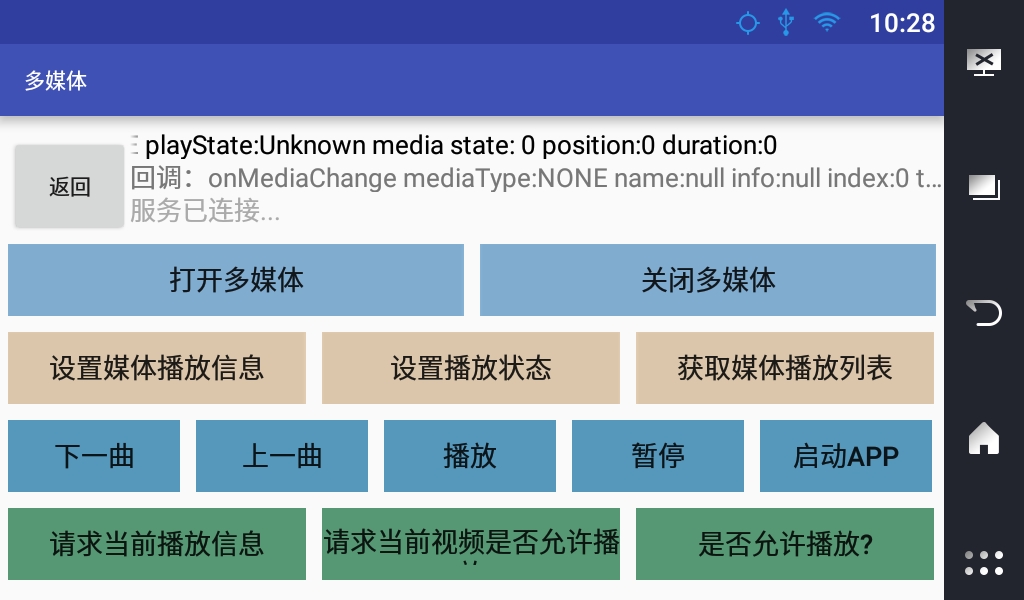
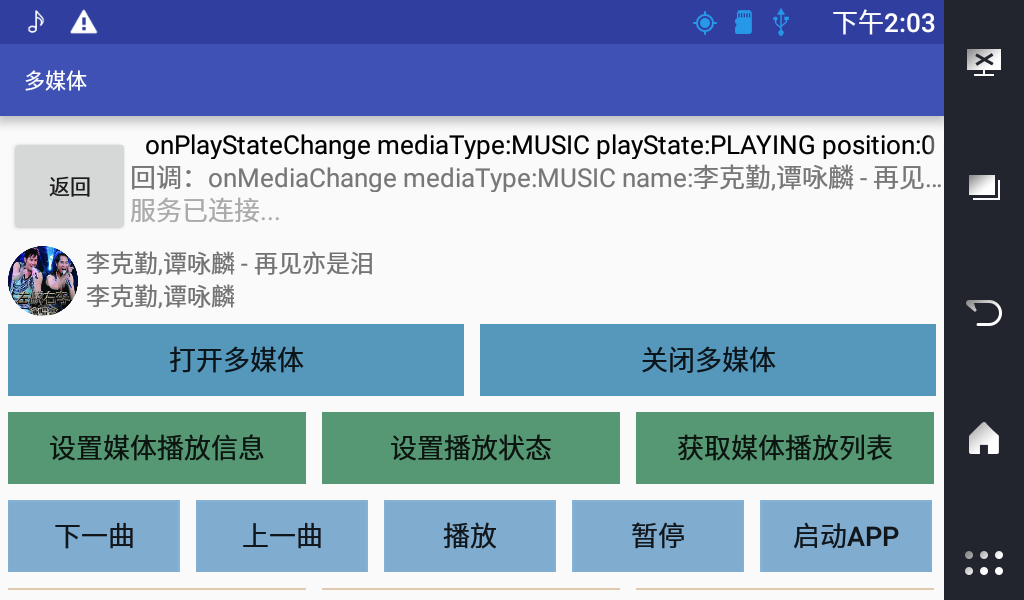
多媒体Activity增加 歌手图片显示

diff --git a/ivi-demo/src/main/java/com/roadrover/demo/ui/activity/MediaActivity.java b/ivi-demo/src/main/java/com/roadrover/demo/ui/activity/MediaActivity.java
@@ -1,8 +1,13 @@
 package com.roadrover.demo.ui.activity;
 
+import android.graphics.Bitmap;
+import android.graphics.drawable.BitmapDrawable;
 import android.os.Bundle;
 import android.os.RemoteException;
+import android.view.LayoutInflater;
 import android.view.View;
+import android.widget.ImageView;
+import android.widget.TextView;
 
 import com.roadrover.demo.R;
 import com.roadrover.demo.ui.view.IVIButton;
@@ -10,6 +15,7 @@ import com.roadrover.sdk.media.IVIMedia;
 import com.roadrover.sdk.media.MediaManager;
 import com.roadrover.sdk.media.MediaSqlManager;
 import com.roadrover.sdk.radio.IVIRadio;
+import com.roadrover.sdk.system.IVISystem;
 import com.roadrover.sdk.utils.ListUtils;
 import com.roadrover.services.media.IGetMediaListCallback;
 import com.roadrover.services.media.IMediaInfoCallback;
@@ -27,6 +33,11 @@ public class MediaActivity extends SDKActivity {
     // 媒体管理类对象
     private MediaManager mMediaManager = null;
     private MediaSqlManager mMediaSqlManager = null;
+
+    // 媒体显示区
+    private ImageView mIvArtist = null;
+    private TextView mTvName = null;
+    private TextView mTvArtist = null;
 
     // 媒体扫描的监听
     private IMediaScannerCallback.Stub mIMediaScannerCallback = new IMediaScannerCallback.Stub() {
@@ -185,6 +196,12 @@ public class MediaActivity extends SDKActivity {
                     " info:" + info +
                     " index:" + index +
                     " totalCount:" + totalCount);
+            if (mTvName != null && mTvArtist != null && mIvArtist != null) {
+                mTvName.setText(name);
+                mTvArtist.setText(info);
+                IVIMedia.ArtImage image = new IVIMedia.ArtImage(artWidth, artHeight, artPixels);
+                mIvArtist.setBackground(new BitmapDrawable(image.getBitmap()));
+            }
         }
 
         @Override
@@ -237,6 +254,8 @@ public class MediaActivity extends SDKActivity {
     @Override
     protected void onViewValid() {
         super.onViewValid();
+
+        addMediaLayout();
 
         addIVIButtons(new IVIButton(this, getString(R.string.open) + getString(R.string.media), new View.OnClickListener() {
             @Override
@@ -361,5 +380,18 @@ public class MediaActivity extends SDKActivity {
     @Override
     protected void onViewInvalid() {
         super.onViewInvalid();
+    }
+
+    /**
+     * 添加一个媒体的layout
+     */
+    private void addMediaLayout() {
+        if (mFunctionsLayout != null) {
+            View view = LayoutInflater.from(this).inflate(R.layout.layout_media, mFunctionsLayout);
+
+            mIvArtist = (ImageView) view.findViewById(R.id.iv_artist_image);
+            mTvName   = (TextView) view.findViewById(R.id.tv_name);
+            mTvArtist = (TextView) view.findViewById(R.id.tv_artist);
+        }
     }
 }

diff --git a/ivi-demo/src/main/java/com/roadrover/demo/ui/activity/BaseActivity.java b/ivi-demo/src/main/java/com/roadrover/demo/ui/activity/BaseActivity.java
@@ -42,7 +42,7 @@ import java.util.Map;
 public abstract class BaseActivity extends AppCompatActivity {
 
     private Toast          mToast;               // Toast对象
-    private LinearLayout   mFunctionsLayout;     // 功能按钮区域Layout
+    protected LinearLayout   mFunctionsLayout;     // 功能按钮区域Layout
     private List<TextView> mContentTextViews;    // 内容TextView列表
     private Map<Integer, ProgressBar> mProgressBarMap;  // 进度条Map
 
